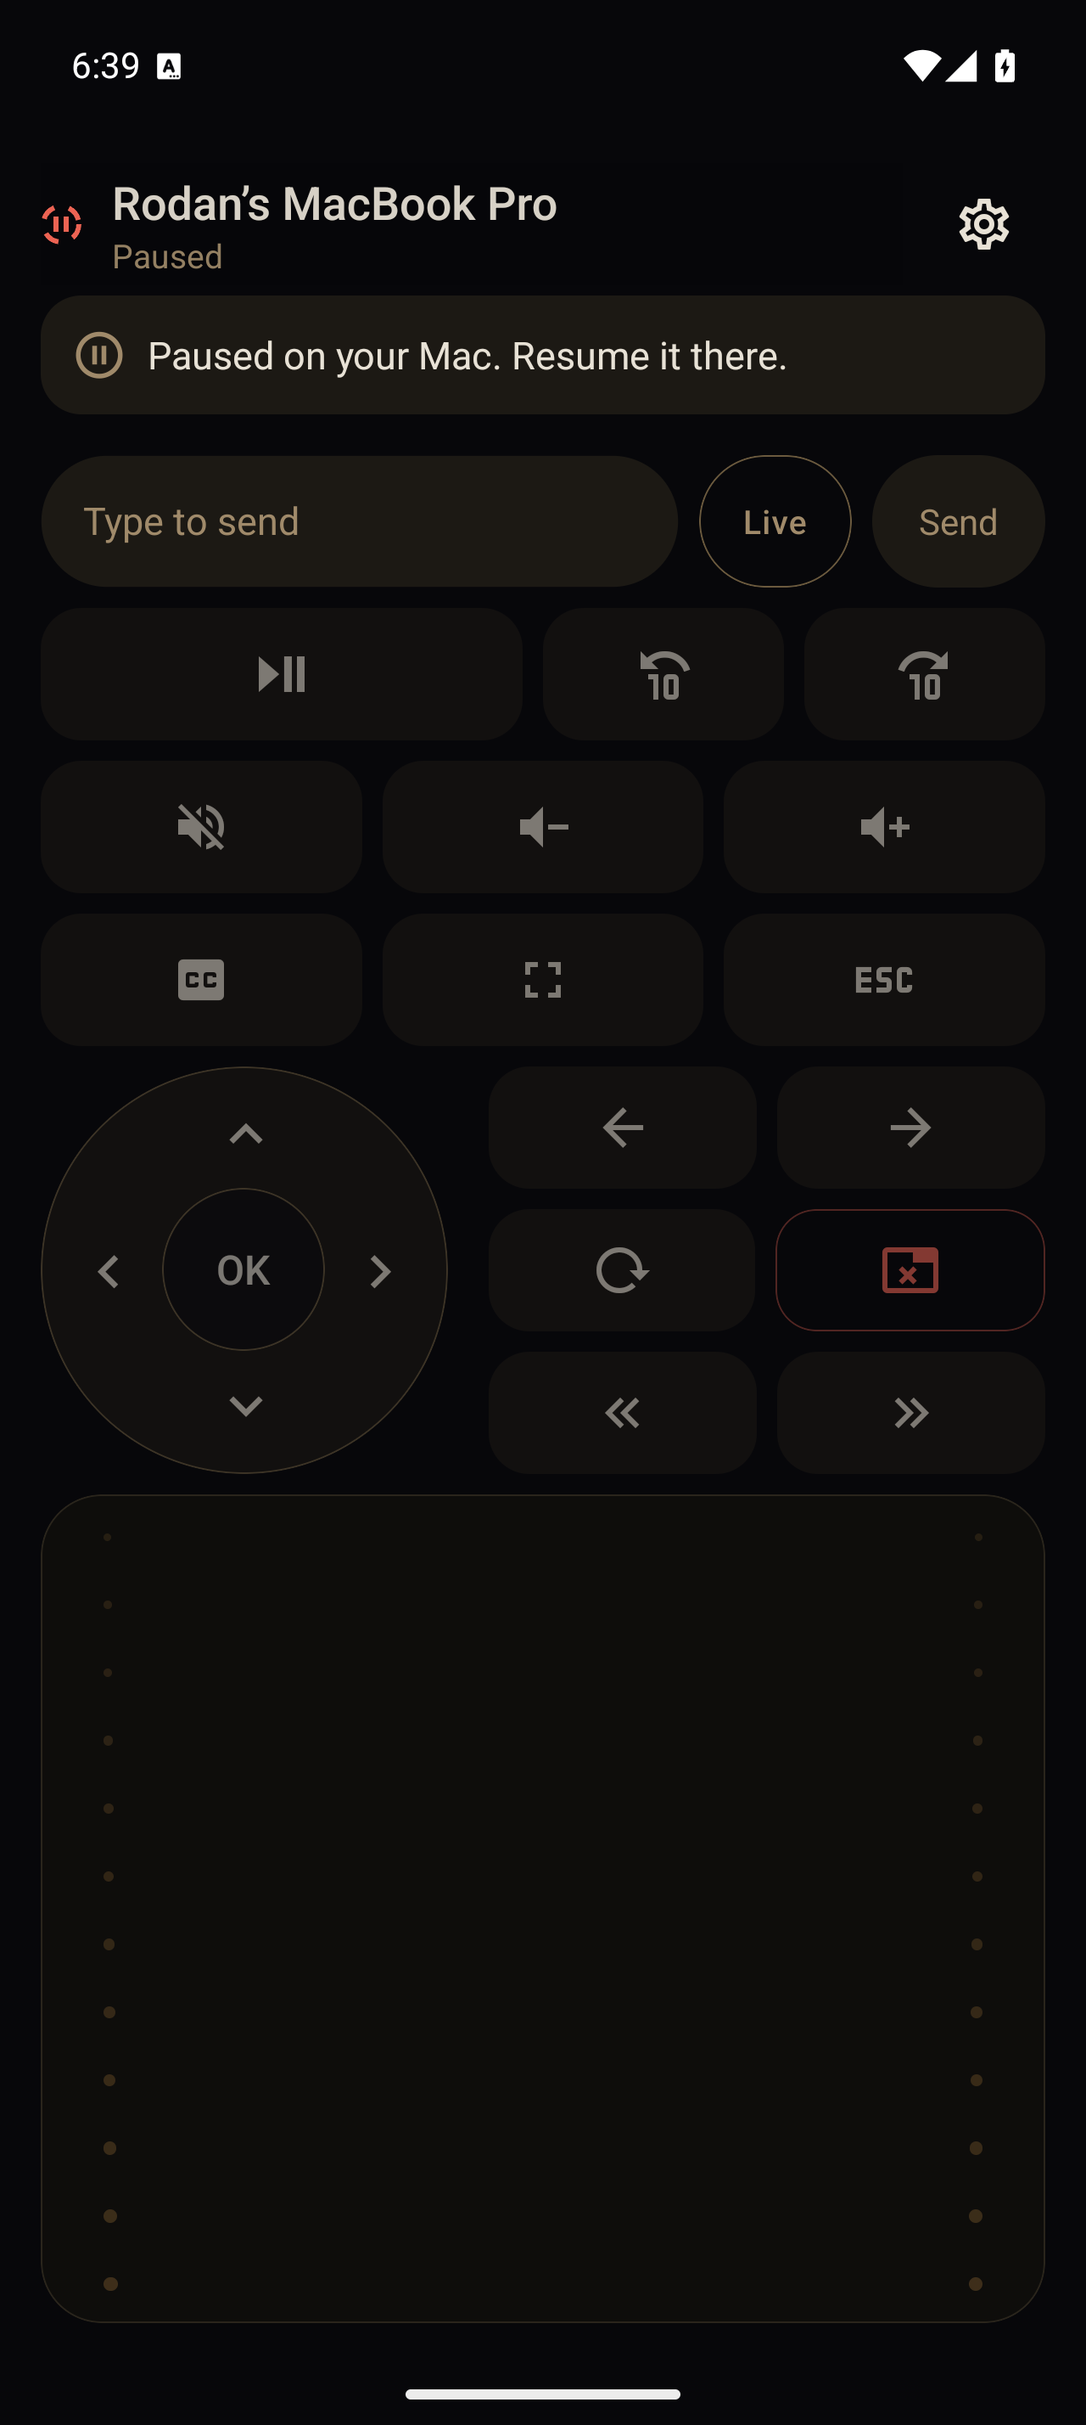
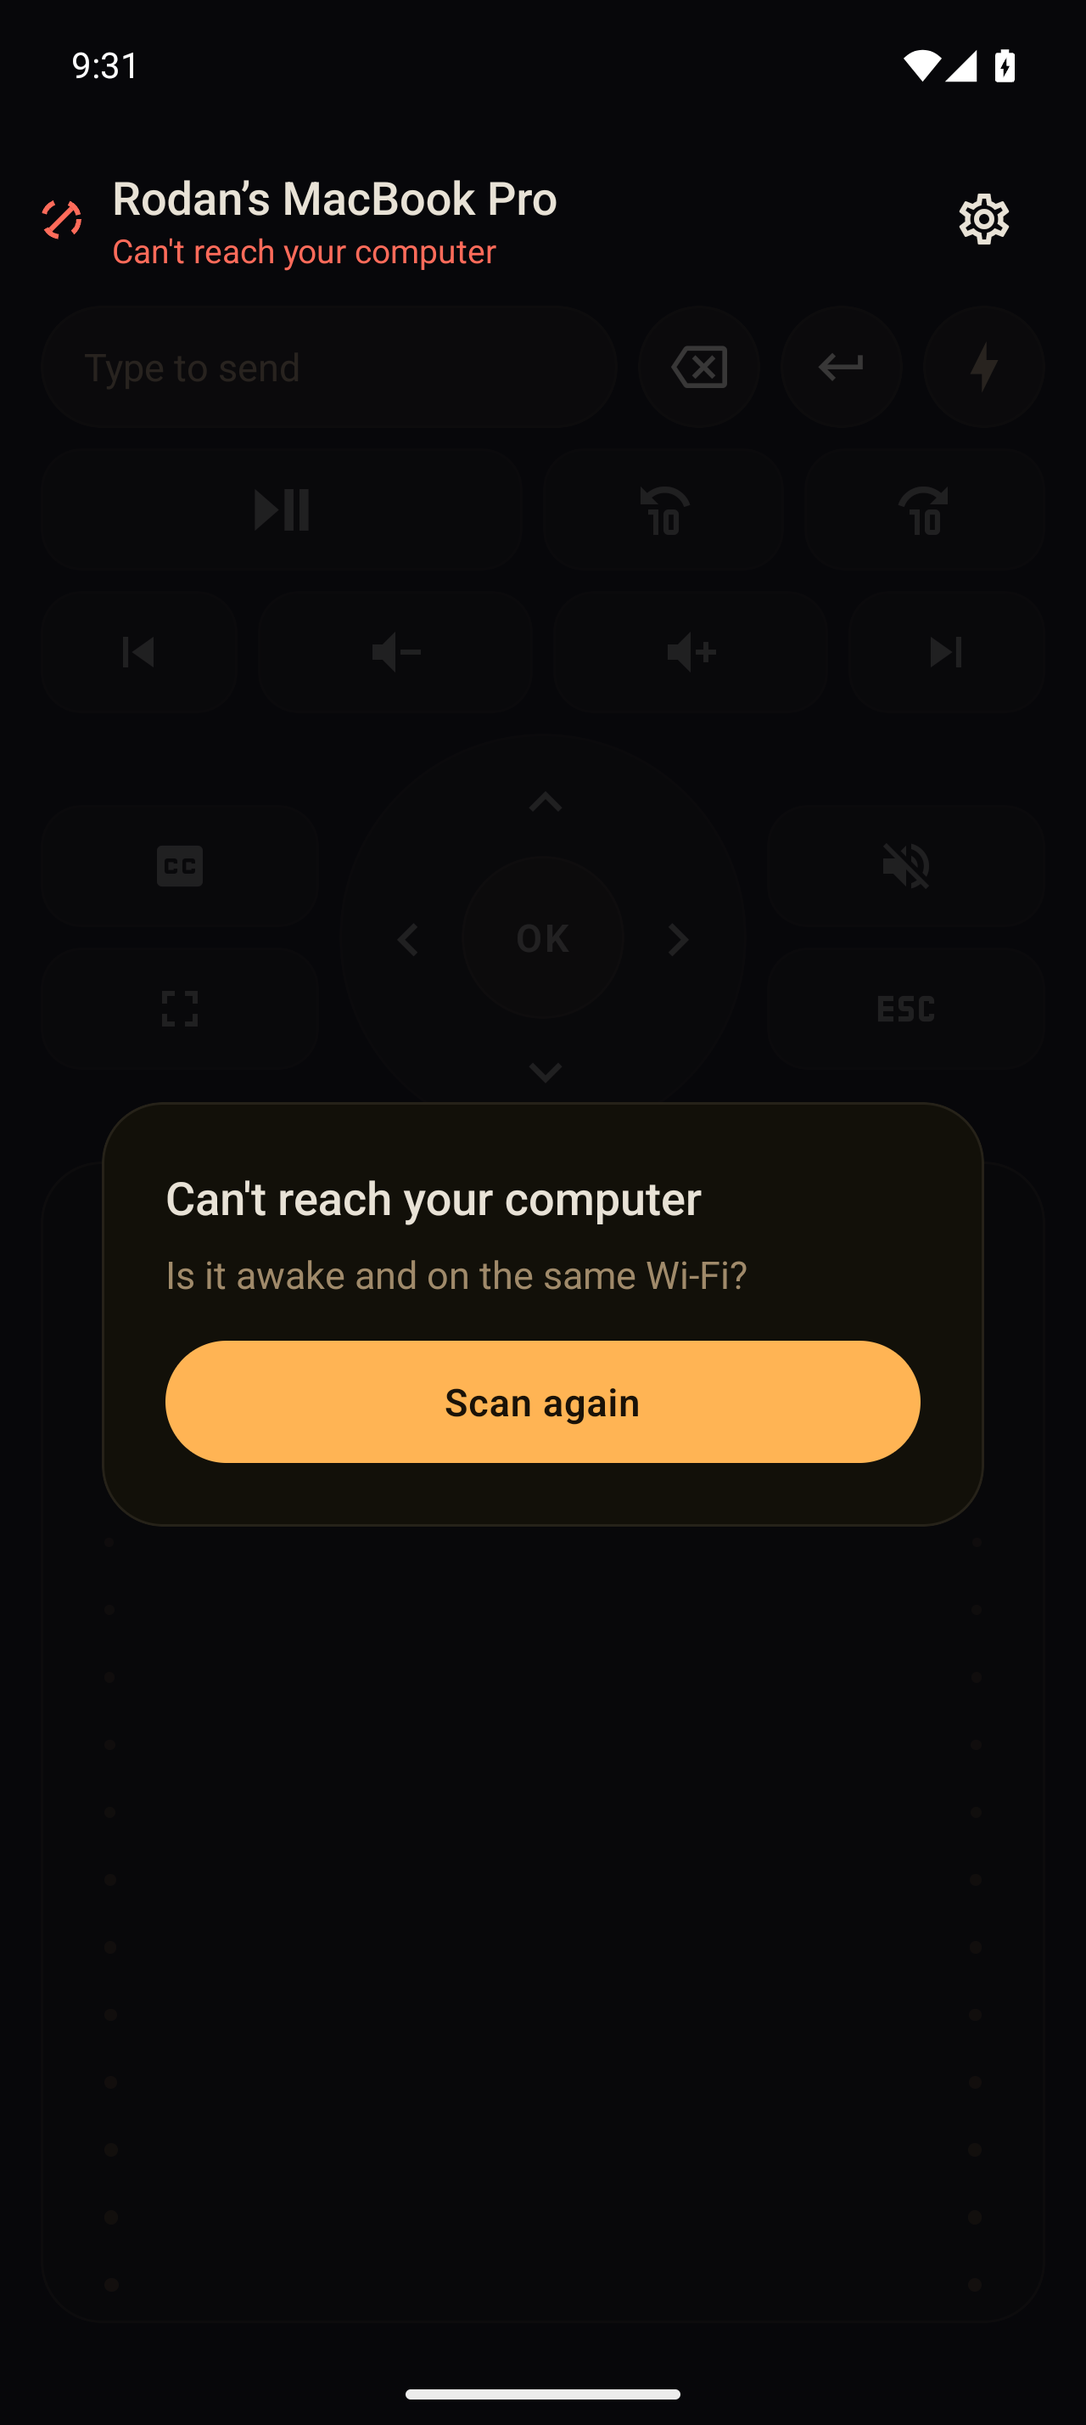
feat(app): full-screen settings page, floating connection dialog, zero-height page dots
Claude-Session: https://claude.ai/code/session_01GjmifBaFruAr4AHSmS1LiQ

diff --git a/app/App.tsx b/app/App.tsx
@@ -1,7 +1,7 @@
 import { StatusBar } from 'expo-status-bar';
 import { useKeepAwake } from 'expo-keep-awake';
 import { useCallback, useEffect, useState } from 'react';
-import { Keyboard, StyleSheet, useWindowDimensions, View } from 'react-native';
+import { BackHandler, Keyboard, StyleSheet, useWindowDimensions, View } from 'react-native';
 import { SafeAreaProvider, SafeAreaView } from 'react-native-safe-area-context';
 import { type Keypair } from './src/noise';
 import { secureRng } from './src/rng';
@@ -14,7 +14,8 @@ import { MainPage } from './src/ui/MainPage';
 import { MorePage } from './src/ui/MorePage';
 import { Pager } from './src/ui/Pager';
 import { PairingScreen } from './src/ui/PairingScreen';
-import { SettingsSheet } from './src/ui/SettingsSheet';
+import { SettingsScreen } from './src/ui/SettingsScreen';
+import { ConnectionDialog } from './src/ui/ConnectionDialog';
 import { StatusHeader } from './src/ui/StatusHeader';
 import { Trackpad } from './src/ui/Trackpad';
 
@@ -47,6 +48,16 @@ function Remote({ boot, onForget }: { boot: Boot; onForget: () => void }) {
     };
   }, []);
 
+  // Android Back returns from the Settings page instead of leaving the app.
+  useEffect(() => {
+    if (!sheet) return;
+    const sub = BackHandler.addEventListener('hardwareBackPress', () => {
+      setSheet(false);
+      return true;
+    });
+    return () => sub.remove();
+  }, [sheet]);
+
   const change = useCallback((s: PointerSettings) => {
     setSettings(s);
     void saveSettings(s);
@@ -60,39 +71,44 @@ function Remote({ boot, onForget }: { boot: Boot; onForget: () => void }) {
       showProfile={(state.status?.profiles.length ?? 0) > 1}
       onReconnect={reconnect}
       onSettings={() => setSheet(true)}
-      onRescan={onForget}
     />
   );
 
   return (
     <SafeAreaView style={s.screen} edges={['top', 'bottom', 'left', 'right']}>
-      <View style={[s.body, kb > 0 && { paddingBottom: space.m + kb }]}>
-        {header}
-        {landscape ? (
-          <Trackpad send={send} settings={settings} dim={!usable} />
-        ) : (
-          <>
-            <KeyboardBar send={send} onTyping={setTyping} />
-            {!typing ? (
-              <View style={[s.controls, !usable && s.dim]} pointerEvents={usable ? 'auto' : 'none'}>
-                <Pager pages={[<MainPage key="main" send={send} active={usable} />, <MorePage key="more" send={send} />]} />
-              </View>
-            ) : null}
-            <Trackpad send={send} settings={settings} dim={!usable} />
-          </>
-        )}
-      </View>
-      <SettingsSheet
-        visible={sheet}
-        settings={settings}
-        hostName={pairing.hostName}
-        onChange={change}
-        onClose={() => setSheet(false)}
-        onForget={() => {
-          setSheet(false);
-          onForget();
-        }}
-      />
+      {sheet ? (
+        <SettingsScreen
+          settings={settings}
+          hostName={pairing.hostName}
+          onChange={change}
+          onBack={() => setSheet(false)}
+          onForget={() => {
+            setSheet(false);
+            onForget();
+          }}
+        />
+      ) : (
+        <View style={[s.body, kb > 0 && { paddingBottom: space.m + kb }]}>
+          {header}
+          {/* Everything under the header; the connection dialog floats over this, so nothing is pushed down. */}
+          <View style={s.stage}>
+            {landscape ? (
+              <Trackpad send={send} settings={settings} dim={!usable} />
+            ) : (
+              <>
+                <KeyboardBar send={send} onTyping={setTyping} />
+                {!typing ? (
+                  <View style={[s.controls, !usable && s.dim]} pointerEvents={usable ? 'auto' : 'none'}>
+                    <Pager pages={[<MainPage key="main" send={send} active={usable} />, <MorePage key="more" send={send} />]} />
+                  </View>
+                ) : null}
+                <Trackpad send={send} settings={settings} dim={!usable} />
+              </>
+            )}
+            <ConnectionDialog state={state} onReconnect={reconnect} onRescan={onForget} />
+          </View>
+        </View>
+      )}
     </SafeAreaView>
   );
 }
@@ -131,6 +147,7 @@ const s = StyleSheet.create({
   root: { flex: 1, backgroundColor: color.ground },
   screen: { flex: 1, backgroundColor: color.ground },
   body: { flex: 1, paddingHorizontal: space.m, paddingTop: space.s, paddingBottom: space.m, gap: space.s },
+  stage: { flex: 1, gap: space.s },
   controls: { gap: space.s },
   dim: { opacity: 0.5 },
 });

diff --git a/app/src/ui/SettingsScreen.tsx b/app/src/ui/SettingsScreen.tsx
@@ -1,14 +1,14 @@
-import { Modal, Pressable, StyleSheet, Switch, Text, View } from 'react-native';
+import MaterialCommunityIcons from '@expo/vector-icons/MaterialCommunityIcons';
+import { Pressable, ScrollView, StyleSheet, Switch, Text, View } from 'react-native';
 import type { PointerSettings } from '../trackpad/pointer';
 import { color, space, TARGET, type as t } from '../theme';
 import { tick } from './haptics';
 
 interface Props {
-  visible: boolean;
   settings: PointerSettings;
   hostName: string;
   onChange: (s: PointerSettings) => void;
-  onClose: () => void;
+  onBack: () => void;
   onForget: () => void;
 }
 
@@ -40,13 +40,17 @@ function Stepper({ label, value, display, onDec, onInc }: { label: string; value
 
 const round = (v: number) => Math.round(v * 100) / 100;
 
-export function SettingsSheet({ visible, settings, hostName, onChange, onClose, onForget }: Props) {
+/** Full-screen settings page with a back arrow (the Android Back button also returns). */
+export function SettingsScreen({ settings, hostName, onChange, onBack, onForget }: Props) {
   return (
-    <Modal visible={visible} transparent animationType="slide" onRequestClose={onClose} statusBarTranslucent>
-      <Pressable style={s.scrim} onPress={onClose} accessibilityLabel="Close settings" />
-      <View style={s.sheet}>
-        <View style={s.grab} />
-        <Text style={[t.title, { marginBottom: space.m }]}>Settings</Text>
+    <View style={s.screen}>
+      <View style={s.top}>
+        <Pressable accessibilityRole="button" accessibilityLabel="Back" onPress={onBack} style={s.back}>
+          <MaterialCommunityIcons name="arrow-left" size={24} color={color.text} />
+        </Pressable>
+        <Text style={t.title} accessibilityRole="header">Settings</Text>
+      </View>
+      <ScrollView contentContainerStyle={s.content}>
         <Stepper label="Pointer speed" value={settings.speed} display={`${settings.speed.toFixed(2)}×`} onDec={() => onChange({ ...settings, speed: Math.max(0.5, round(settings.speed - 0.25)) })} onInc={() => onChange({ ...settings, speed: Math.min(4, round(settings.speed + 0.25)) })} />
         <Stepper label="Acceleration" value={settings.acceleration} display={`${Math.round(settings.acceleration * 100)}%`} onDec={() => onChange({ ...settings, acceleration: Math.max(0, round(settings.acceleration - 0.25)) })} onInc={() => onChange({ ...settings, acceleration: Math.min(1, round(settings.acceleration + 0.25)) })} />
         <View style={s.row}>
@@ -65,15 +69,16 @@ export function SettingsSheet({ visible, settings, hostName, onChange, onClose, 
         <Pressable accessibilityRole="button" onPress={onForget} style={s.forget}>
           <Text style={{ color: color.danger, fontSize: 15 }}>Forget {hostName} and pair again</Text>
         </Pressable>
-      </View>
-    </Modal>
+      </ScrollView>
+    </View>
   );
 }
 
 const s = StyleSheet.create({
-  scrim: { flex: 1, backgroundColor: 'rgba(0,0,0,0.6)' },
-  sheet: { backgroundColor: color.groove, borderTopLeftRadius: 24, borderTopRightRadius: 24, padding: space.l, paddingBottom: space.l + 8, borderTopWidth: 1, borderColor: color.rim },
-  grab: { alignSelf: 'center', width: 32, height: 4, borderRadius: 2, backgroundColor: color.rimStrong, marginBottom: space.m },
+  screen: { flex: 1, backgroundColor: color.ground },
+  top: { flexDirection: 'row', alignItems: 'center', gap: space.s, paddingHorizontal: space.s, paddingTop: space.s, minHeight: 56 },
+  back: { width: TARGET, height: TARGET, alignItems: 'center', justifyContent: 'center' },
+  content: { padding: space.l, paddingTop: space.m },
   row: { flexDirection: 'row', alignItems: 'center', justifyContent: 'space-between', minHeight: 56 },
   stepper: { flexDirection: 'row', alignItems: 'center' },
   step: { width: TARGET, height: TARGET, borderRadius: TARGET / 2, alignItems: 'center', justifyContent: 'center', backgroundColor: color.surface, borderWidth: 1, borderColor: color.rim },

diff --git a/app/src/ui/Pager.tsx b/app/src/ui/Pager.tsx
@@ -1,14 +1,12 @@
-import { useRef, useState } from 'react';
-import { type LayoutChangeEvent, type NativeScrollEvent, type NativeSyntheticEvent, Pressable, ScrollView, StyleSheet, View } from 'react-native';
+import { useState } from 'react';
+import { type LayoutChangeEvent, type NativeScrollEvent, type NativeSyntheticEvent, ScrollView, StyleSheet, View } from 'react-native';
 import { color } from '../theme';
-import { tick } from './haptics';
 
 /**
- * Swipeable pages with small dots in the gap beneath them, so they use no extra height. Every page
+ * Swipeable pages with tiny dots in the gap beneath them, so they use no extra height. Every page
  * is as tall as the first and the trackpad never changes size; shorter pages sit centred.
  */
 export function Pager({ pages }: { pages: React.ReactNode[] }) {
-  const scroller = useRef<React.ComponentRef<typeof ScrollView>>(null);
   const [width, setWidth] = useState(0);
   const [height, setHeight] = useState(0);
   const [index, setIndex] = useState(0);
@@ -16,15 +14,9 @@ export function Pager({ pages }: { pages: React.ReactNode[] }) {
   const settle = (e: NativeSyntheticEvent<NativeScrollEvent>) => {
     if (width > 0) setIndex(Math.round(e.nativeEvent.contentOffset.x / width));
   };
-  const go = (i: number) => {
-    tick();
-    setIndex(i);
-    scroller.current?.scrollTo({ x: i * width, animated: true });
-  };
-
   return (
     <View onLayout={(e: LayoutChangeEvent) => setWidth(e.nativeEvent.layout.width)}>
-      <ScrollView ref={scroller} horizontal pagingEnabled showsHorizontalScrollIndicator={false} onMomentumScrollEnd={settle} nestedScrollEnabled decelerationRate="fast">
+      <ScrollView horizontal pagingEnabled showsHorizontalScrollIndicator={false} onMomentumScrollEnd={settle} nestedScrollEnabled decelerationRate="fast">
         {pages.map((page, i) => (
           <View key={i} style={{ width, minHeight: height || undefined, justifyContent: 'center' }}>
             {/* Measure the content itself, not the box that carries the minimum height. */}
@@ -32,11 +24,9 @@ export function Pager({ pages }: { pages: React.ReactNode[] }) {
           </View>
         ))}
       </ScrollView>
-      <View style={s.dots} accessibilityRole="tablist">
+      <View style={s.dots} pointerEvents="none" accessibilityElementsHidden importantForAccessibility="no-hide-descendants">
         {pages.map((_, i) => (
-          <Pressable key={i} accessibilityRole="tab" accessibilityLabel={`Page ${i + 1} of ${pages.length}`} accessibilityState={{ selected: i === index }} onPress={() => go(i)} hitSlop={14}>
-            <View style={[s.dot, i === index && s.dotOn]} />
-          </Pressable>
+          <View key={i} style={[s.dot, i === index && s.dotOn]} />
         ))}
       </View>
     </View>
@@ -44,8 +34,8 @@ export function Pager({ pages }: { pages: React.ReactNode[] }) {
 }
 
 const s = StyleSheet.create({
-  // Its own row under the keys, so nothing can overlap it.
-  dots: { height: 14, marginTop: 4, flexDirection: 'row', justifyContent: 'center', gap: 6, alignItems: 'center' },
-  dot: { width: 6, height: 6, borderRadius: 3, backgroundColor: color.rimStrong },
-  dotOn: { width: 18, backgroundColor: color.textMuted },
+  // Centred in the existing 8 dp gap above the trackpad, so they cost no height.
+  dots: { position: 'absolute', left: 0, right: 0, bottom: -6, height: 4, flexDirection: 'row', justifyContent: 'center', gap: 5 },
+  dot: { width: 4, height: 4, borderRadius: 2, backgroundColor: color.rimStrong },
+  dotOn: { width: 14, backgroundColor: color.textMuted },
 });

diff --git a/app/src/ui/StatusHeader.tsx b/app/src/ui/StatusHeader.tsx
@@ -48,10 +48,9 @@ interface Props {
   showProfile: boolean;
   onReconnect: () => void;
   onSettings: () => void;
-  onRescan: () => void;
 }
 
-export function StatusHeader({ state, hostName, profile, showProfile, onReconnect, onSettings, onRescan }: Props) {
+export function StatusHeader({ state, hostName, profile, showProfile, onReconnect, onSettings }: Props) {
   const d = describe(state);
   const connected = state.phase === 'connected';
   return (
@@ -82,17 +81,6 @@ export function StatusHeader({ state, hostName, profile, showProfile, onReconnec
           <MaterialCommunityIcons name="cog-outline" size={24} color={color.text} />
         </Pressable>
       </View>
-      {!connected && state.phase !== 'connecting' ? (
-        <View style={s.banner} accessibilityLiveRegion="polite">
-          {d.kind === 'paused' ? <MaterialCommunityIcons name="pause-circle-outline" size={22} color={color.textMuted} /> : null}
-          <Text style={[t.body, { flex: 1 }]}>{d.kind === 'paused' ? 'Paused on your computer. Resume it there.' : (d.hint ?? d.word)}</Text>
-          {state.reason === 'paused' ? null : (
-            <Pressable accessibilityRole="button" onPress={state.needsRescan ? onRescan : onReconnect} style={s.bannerBtn}>
-              <Text style={s.bannerBtnText}>{state.needsRescan ? 'Scan again' : 'Reconnect'}</Text>
-            </Pressable>
-          )}
-        </View>
-      ) : null}
     </View>
   );
 }
@@ -110,9 +98,5 @@ const s = StyleSheet.create({
   chip: { minHeight: 36, paddingHorizontal: space.m - 4, borderRadius: 18, justifyContent: 'center', backgroundColor: color.surface },
   chipText: { ...t.body, fontSize: 13, textTransform: 'capitalize' },
   icon: { width: TARGET, height: TARGET, alignItems: 'center', justifyContent: 'center' },
-  banner: { flexDirection: 'row', alignItems: 'center', gap: space.s, padding: space.s + 4, borderRadius: 16, backgroundColor: color.surface, marginBottom: space.s },
-  // Tonal, not amber: amber stays reserved for the one lead action.
-  bannerBtn: { minHeight: 40, paddingHorizontal: space.m, justifyContent: 'center', borderRadius: 20, backgroundColor: color.surfacePressed },
-  bannerBtnText: { color: color.text, fontWeight: '500', fontSize: 14 },
   statusText: { fontSize: 13, color: color.textMuted },
 });

diff --git a/app/src/ui/ConnectionDialog.tsx b/app/src/ui/ConnectionDialog.tsx
@@ -1,0 +1,43 @@
+import { Pressable, StyleSheet, Text, View } from 'react-native';
+import type { ConnState } from '../connection';
+import { color, space, TARGET, type as t } from '../theme';
+import { describe } from './StatusHeader';
+
+interface Props {
+  state: ConnState;
+  onReconnect: () => void;
+  onRescan: () => void;
+}
+
+/**
+ * Shown over the controls (below the header) when there is no connection, so nothing gets pushed
+ * down. The header stays visible, so Settings and "forget this computer" remain reachable.
+ */
+export function ConnectionDialog({ state, onReconnect, onRescan }: Props) {
+  if (state.phase === 'connected' || state.phase === 'connecting') return null;
+  const d = describe(state);
+  const paused = d.kind === 'paused';
+  return (
+    <View style={s.scrim} accessibilityLiveRegion="polite">
+      <View style={s.card}>
+        <Text style={t.title} accessibilityRole="header">
+          {paused ? 'Paused on your computer' : d.word}
+        </Text>
+        <Text style={[t.body, s.body]}>{paused ? 'Resume it there to keep going.' : (d.hint ?? '')}</Text>
+        {state.reason === 'paused' ? null : (
+          <Pressable accessibilityRole="button" onPress={state.needsRescan ? onRescan : onReconnect} style={s.button}>
+            <Text style={s.buttonText}>{state.needsRescan ? 'Scan again' : 'Reconnect'}</Text>
+          </Pressable>
+        )}
+      </View>
+    </View>
+  );
+}
+
+const s = StyleSheet.create({
+  scrim: { position: 'absolute', top: 0, left: 0, right: 0, bottom: 0, backgroundColor: 'rgba(7,7,10,0.78)', alignItems: 'center', justifyContent: 'center', padding: space.l },
+  card: { width: '100%', maxWidth: 360, borderRadius: 24, padding: space.l, backgroundColor: color.groove, borderWidth: 1, borderColor: color.rim, gap: space.s },
+  body: { color: color.textMuted },
+  button: { minHeight: TARGET, borderRadius: TARGET / 2, alignItems: 'center', justifyContent: 'center', backgroundColor: color.amber, marginTop: space.s },
+  buttonText: { color: color.onAmber, fontSize: 15, fontWeight: '600', letterSpacing: 0.3 },
+});

diff --git a/docs/design-brief.md b/docs/design-brief.md
@@ -56,3 +56,8 @@ Three swipeable pages (dots above the trackpad show which one):
 - Settings lists the trackpad gestures.
 - Compact layout keeps the trackpad large: 48 dp keys, 52 dp header, page dots sit in the gap above the trackpad and cost no height.
 - Rule from the owner for adding anything: only simple, reliable actions. Deliberately NOT added: three-finger swipe shortcuts (OnePlus system gestures, accidental triggers), Mission Control (needs a new protocol command and depends on a macOS shortcut that may be off; revisit after a 30 s on-device check), a mouse Hold toggle (can desync), slide First/Last (inconsistent across apps), a Stop key (not available in enigo).
+
+## Addendum 2026-11-20 (later): settings page, connection dialog, dots
+- **Settings** is a dedicated full-screen page (back arrow; Android Back returns to the remote), not a bottom sheet.
+- **No connection:** a dialog card floats over the controls, below the header, so nothing is pushed down and Settings stays reachable. Paused shows "Paused on your computer", others show the reason with Reconnect (or Scan again when pairing is needed).
+- **Page dots** are 4 dp and sit inside the existing gap above the trackpad, so they cost no height.
